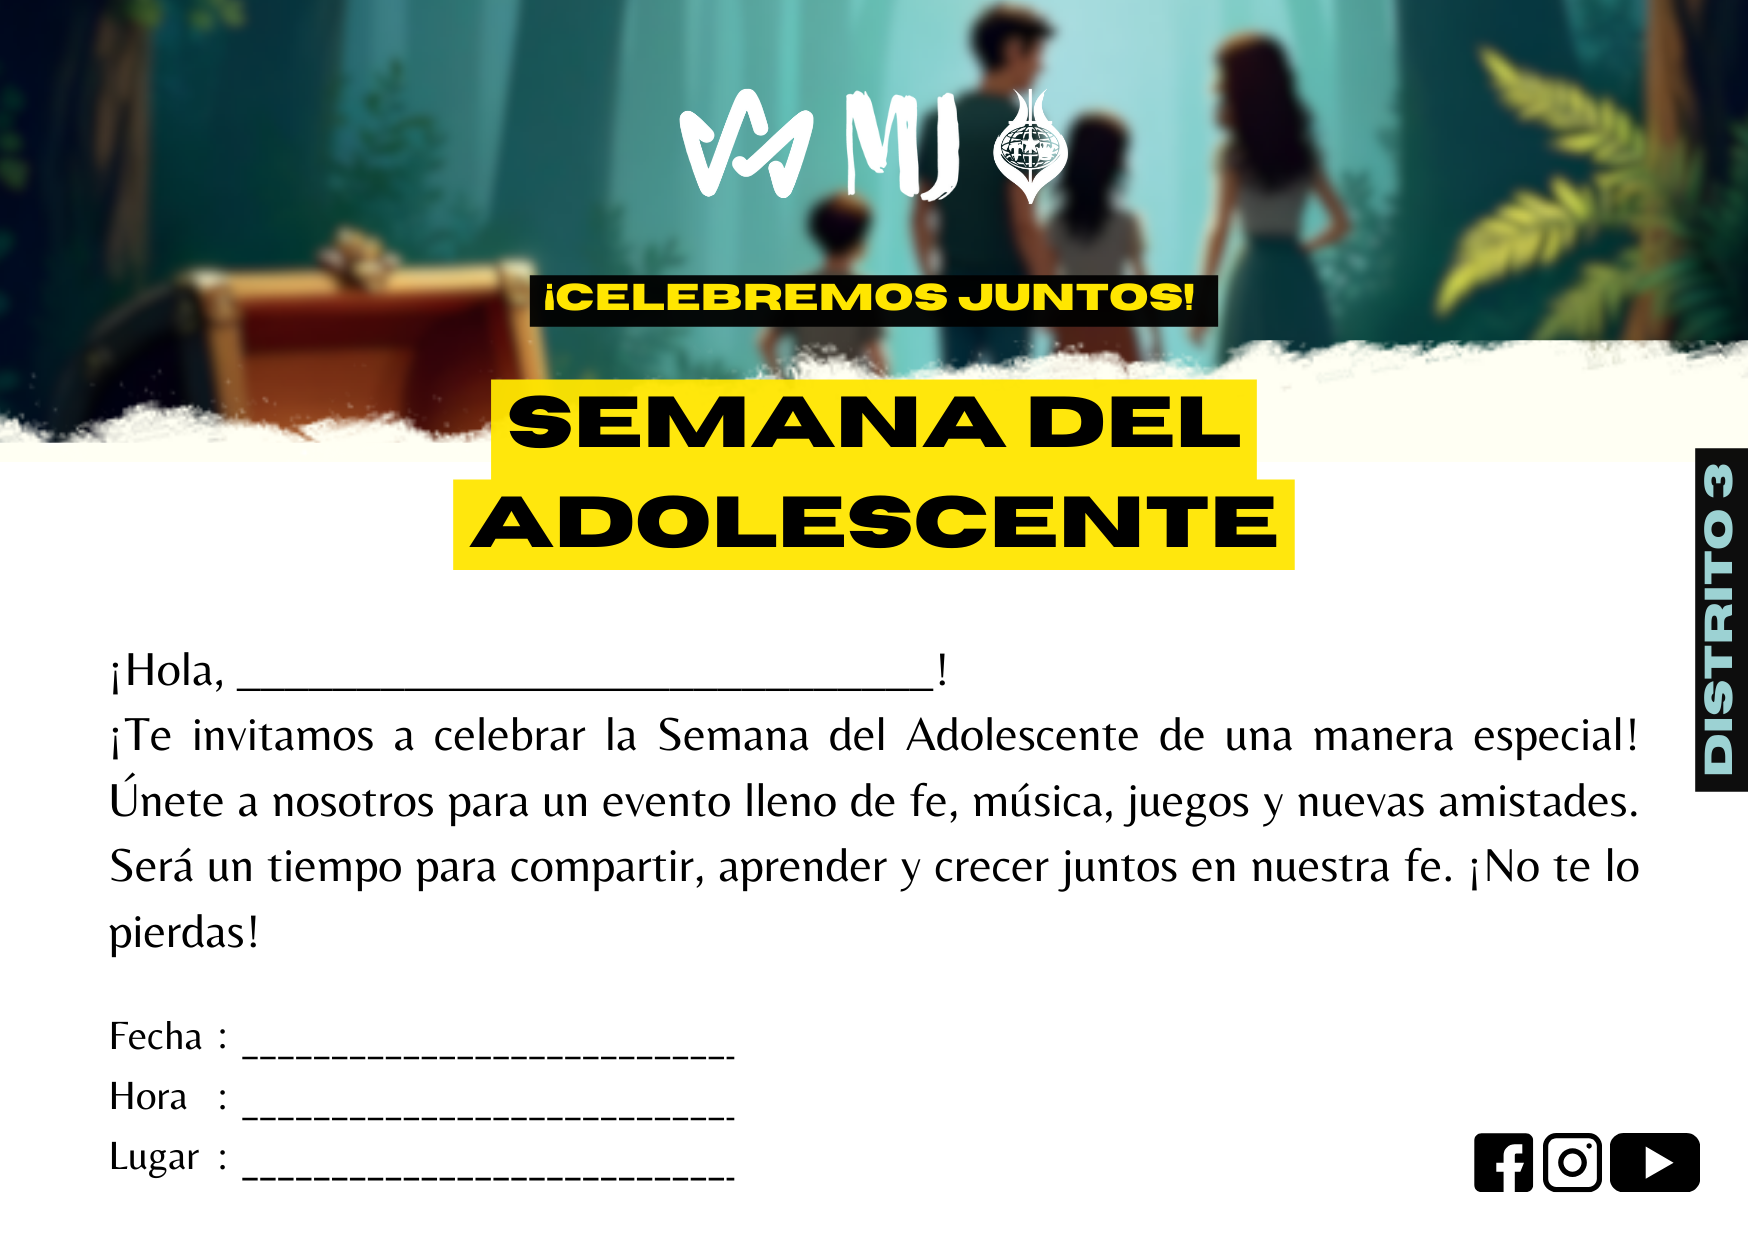
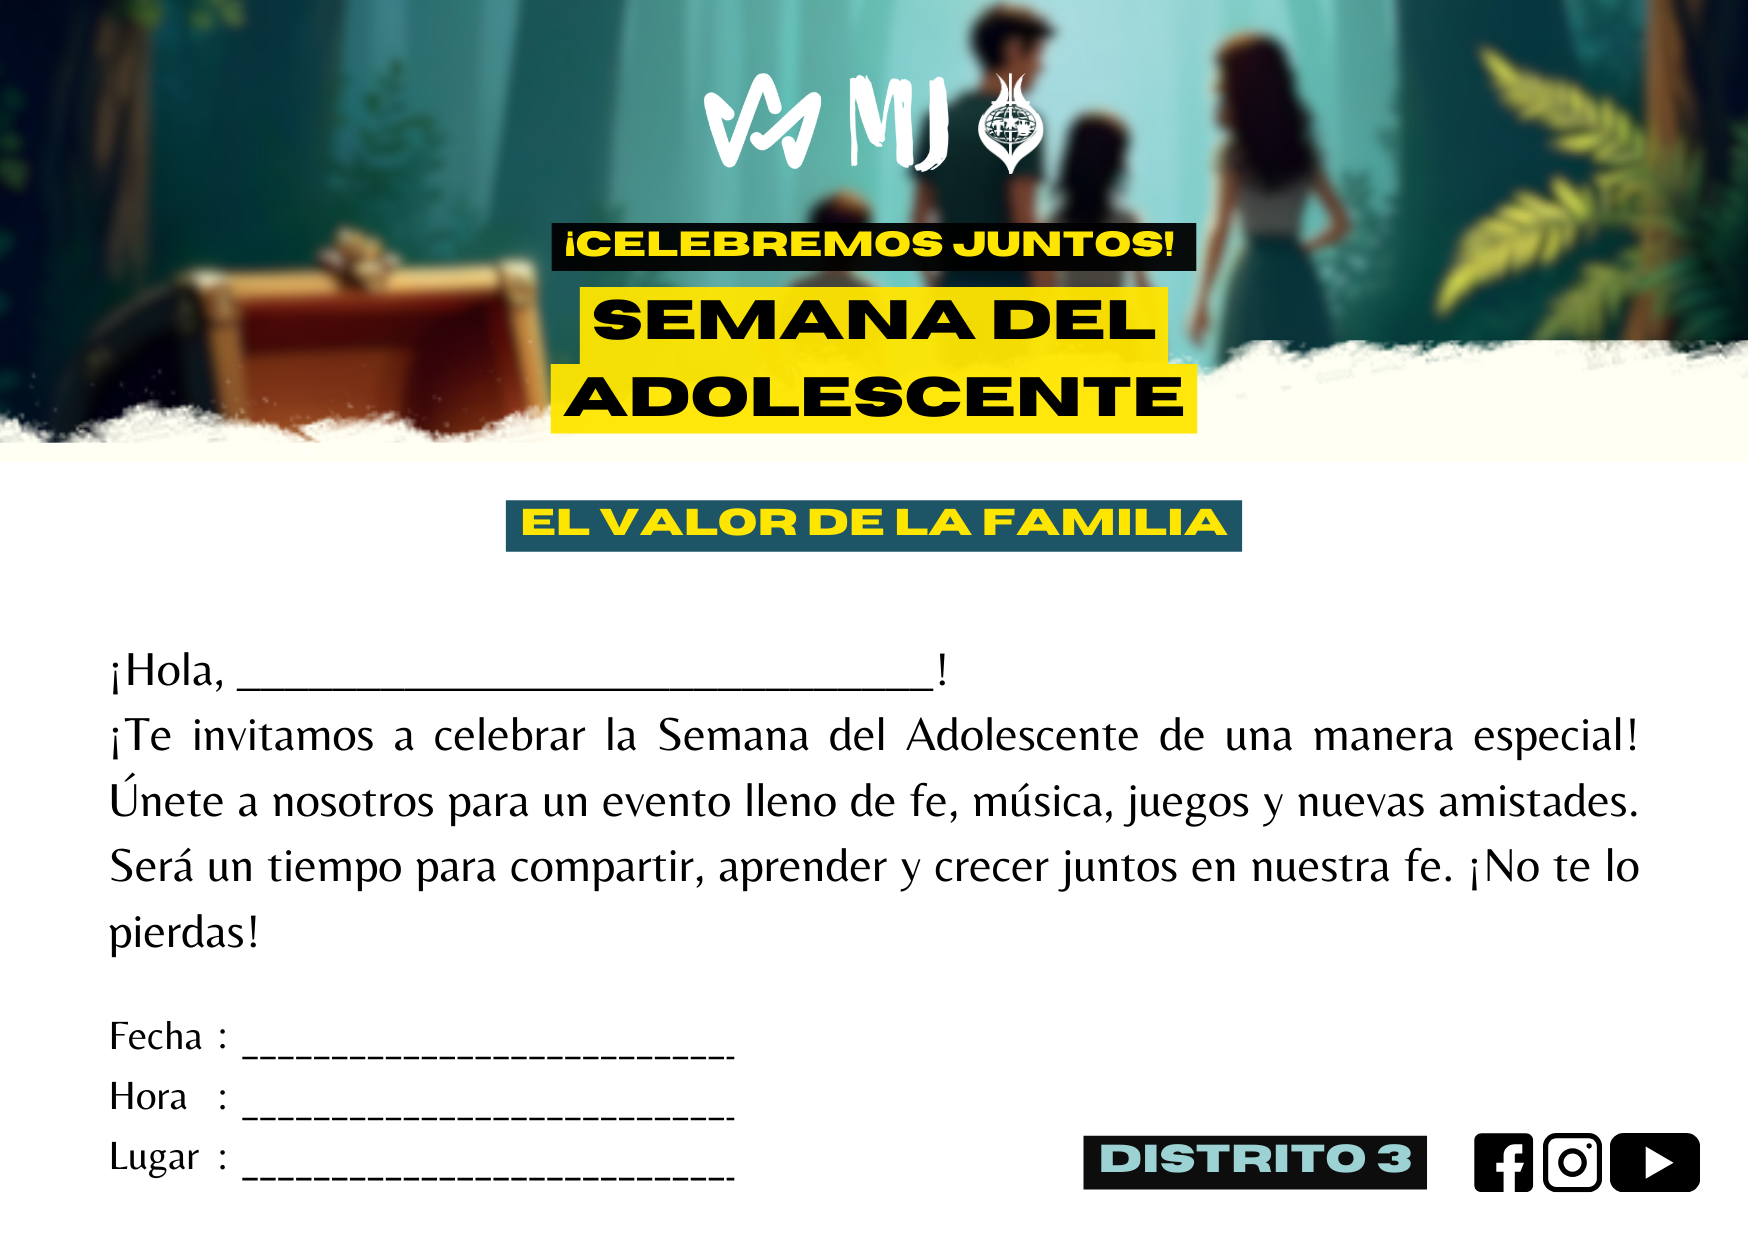
Add new title and template invitation

Changed region(s): [[0.2471, 0.0613, 0.7414, 0.4597], [0.9577, 0.3371, 1.0, 0.6435], [0.6178, 0.8887, 0.8341, 0.9806]]

diff --git a/development/index.html b/development/index.html
@@ -1,18 +1,18 @@
 <!DOCTYPE html>
 <html>
 <head>
-    <title>Generador de Invitaciones</title>
+    <title>MJAD3</title>
     <link rel="stylesheet" type="text/css" href="style.css">
 </head>
 <body>
+    <img id="invitacion-template" src="invitacion.png" alt="Invitación">
     <div class="container">
-        <h1>¡Crea tu Invitación!</h1>
-        <img id="invitacion-template" src="invitacion.png" alt="Invitación">
+        <h1>¡Invita a un adolescente!</h1>
         <img id="invitacion-preview" src="invitacion.png" alt="Invitación">
 
         <div class="form">
             <label for="nombre">Nombre:</label>
-            <input type="text" id="nombre" placeholder="Tu nombre" maxlength="36"><br><br>
+            <input type="text" id="nombre" placeholder="Nombre del(la) invitado(a)" maxlength="36"><br><br>
 
             <label for="fecha">Fecha:</label>
             <input type="date" id="fecha"><br><br>
@@ -21,10 +21,12 @@
             <input type="time" id="hora"><br><br>
 
             <label for="lugar">Lugar:</label>
-            <input type="text" id="lugar" placeholder="Lugar del evento" maxlength="24"><br><br>
+            <input type="text" id="lugar" placeholder="Lugar del evento" maxlength="36"><br><br>
 
             <button onclick="generarInvitacion()">Generar Invitación</button>
         </div>
+
+
     </div>
 
     <script src="script.js"></script>
